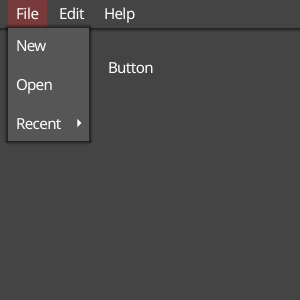
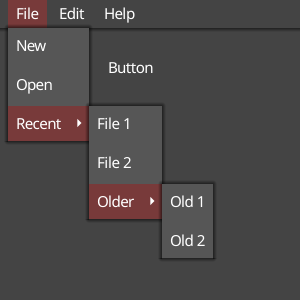
Fix some additional failing tests...

Changed region(s): [[0.0, 0.33, 0.72, 0.87], [0.33, 0.51, 0.45, 0.57]]

diff --git a/internal/driver/glfw/menu_bar_test.go b/internal/driver/glfw/menu_bar_test.go
@@ -74,11 +74,11 @@ func TestMenuBar(t *testing.T) {
 
 		buttonPos := fyne.NewPos(110, 60)
 		fileMenuPos := fyne.NewPos(20, 10)
-		fileNewPos := fyne.NewPos(20, 50)
-		fileOpenPos := fyne.NewPos(20, 70)
-		fileRecentPos := fyne.NewPos(20, 100)
-		fileRecentOlderPos := fyne.NewPos(120, 170)
-		fileRecentOlderOld1Pos := fyne.NewPos(200, 170)
+		fileNewPos := fyne.NewPos(20, 55)
+		fileOpenPos := fyne.NewPos(20, 75)
+		fileRecentPos := fyne.NewPos(20, 110)
+		fileRecentOlderPos := fyne.NewPos(120, 190)
+		fileRecentOlderOld1Pos := fyne.NewPos(200, 190)
 		editMenuPos := fyne.NewPos(70, 10)
 		helpMenuPos := fyne.NewPos(120, 10)
 		type action struct {
